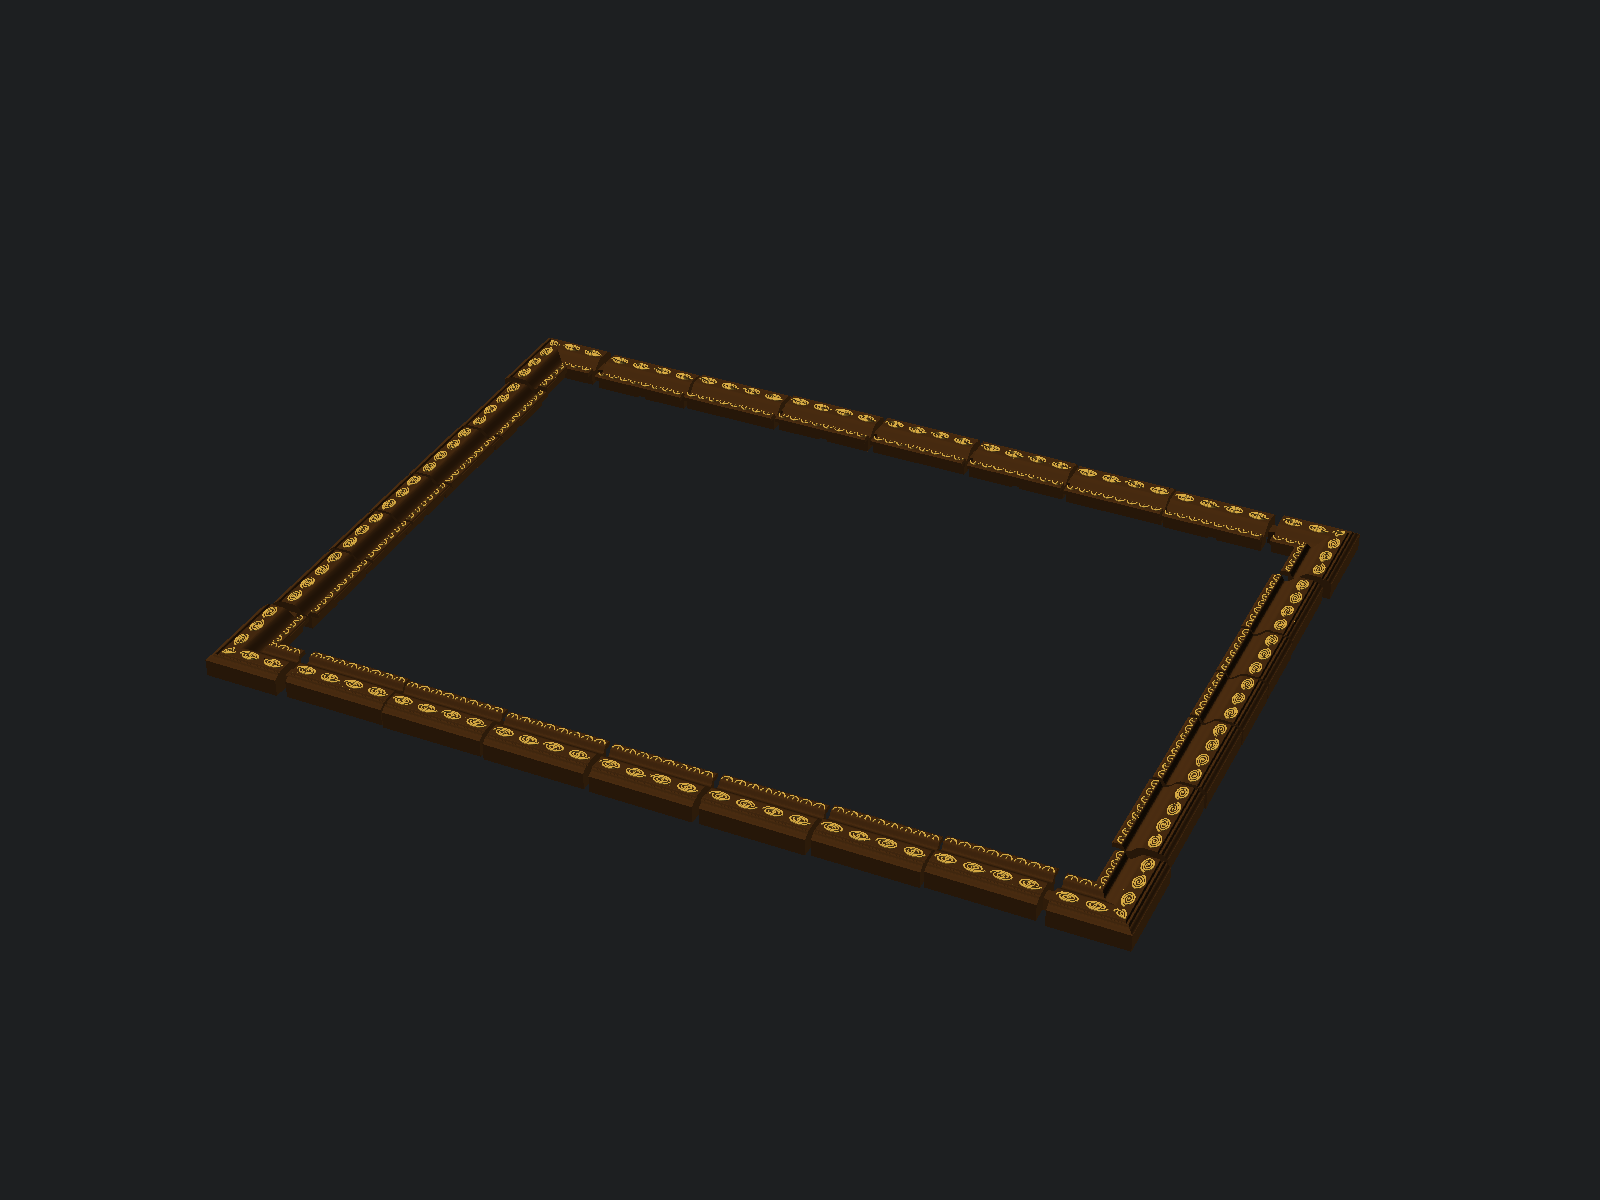
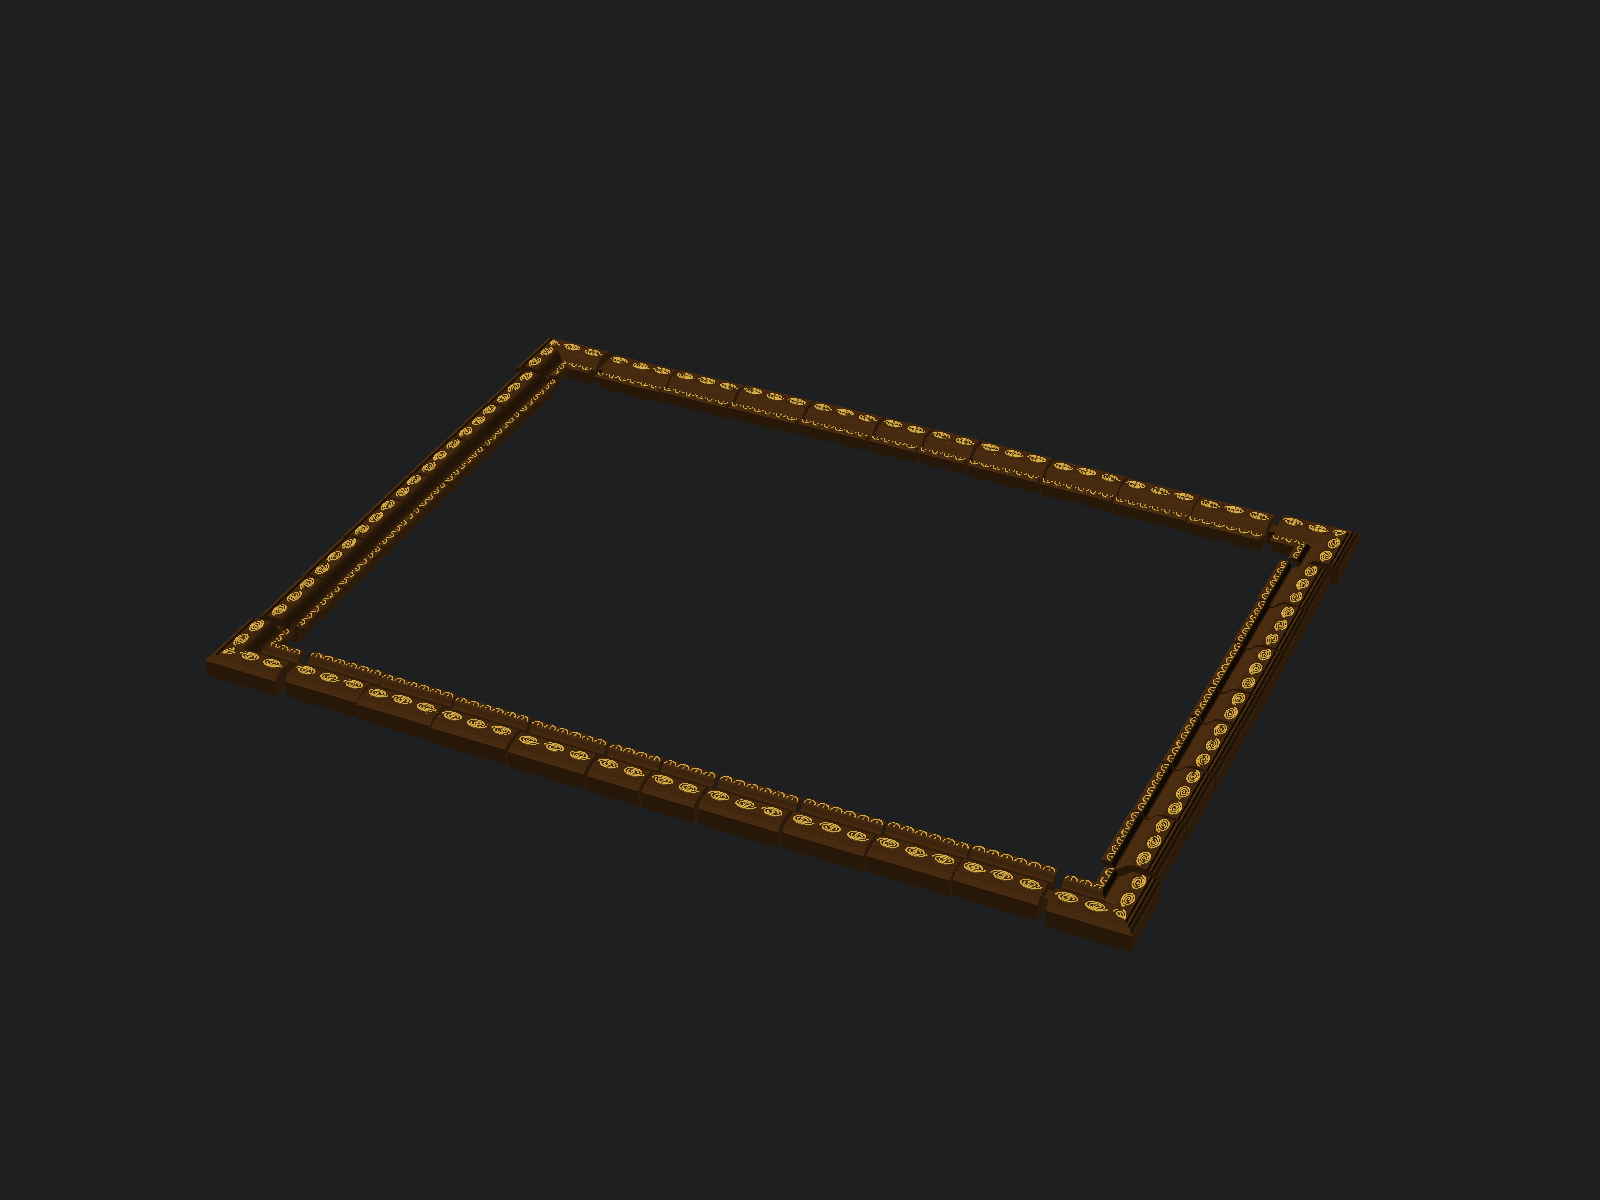
two-tier previews: fast openscad + hd f3d renders

diff --git a/make-glb.py b/make-glb.py
@@ -2,15 +2,11 @@
 # requires-python = ">=3.10"
 # dependencies = ["trimesh", "numpy"]
 # ///
-# Pack the body + ornament STL exports into one GLB with PBR materials,
-# for viewers with real lighting (e.g. https://f3d.app/viewer).
+# Pack body (+ optional ornament) STL exports into one GLB with PBR materials,
+# for viewers with real lighting (e.g. F3D, https://f3d.app/viewer).
 #
-# Usage:
-#   openscad --backend=Manifold -D 'render_mode="assembled"' -D 'export_group="body"' \
-#     -o /tmp/frame_body.stl parametric-picture-frame.scad
-#   openscad --backend=Manifold -D 'render_mode="assembled"' -D 'export_group="ornament"' \
-#     -o /tmp/frame_ornament.stl parametric-picture-frame.scad
-#   uv run make-glb.py
+# Usage: uv run make-glb.py [body.stl ornament.stl|- out.glb]
+#   (no args: /tmp/frame_body.stl /tmp/frame_ornament.stl parametric-picture-frame.glb)
 
 import numpy as np  # noqa: F401 — kept for uv script deps
 import trimesh
@@ -30,14 +26,18 @@ GOLD = trimesh.visual.material.PBRMaterial(
     name="gold", baseColorFactor=srgb_to_linear([0.83, 0.66, 0.26]),
     metallicFactor=1.0, roughnessFactor=0.35)
 
+import sys
+
+body, ornament, out = (sys.argv[1:4] if len(sys.argv) == 4 else
+                       ("/tmp/frame_body.stl", "/tmp/frame_ornament.stl", "parametric-picture-frame.glb"))
 scene = trimesh.Scene()
-for path, name, mat in [("/tmp/frame_body.stl", "body", WALNUT),
-                        ("/tmp/frame_ornament.stl", "ornament", GOLD)]:
+for path, name, mat in [(body, "body", WALNUT), (ornament, "ornament", GOLD)]:
+    if path == "-":
+        continue
     mesh = trimesh.load(path)
     mesh.visual = trimesh.visual.TextureVisuals(material=mat)
     scene.add_geometry(mesh, node_name=name, geom_name=name)
 
-out = "parametric-picture-frame.glb"
 scene.export(out)
 print(out, f"{len(scene.geometry)} meshes,",
       sum(len(g.faces) for g in scene.geometry.values()), "triangles")
